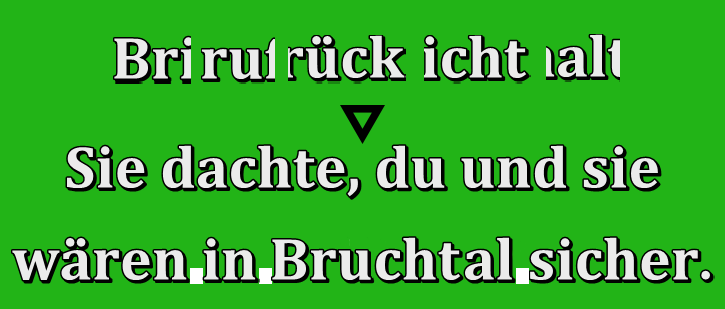
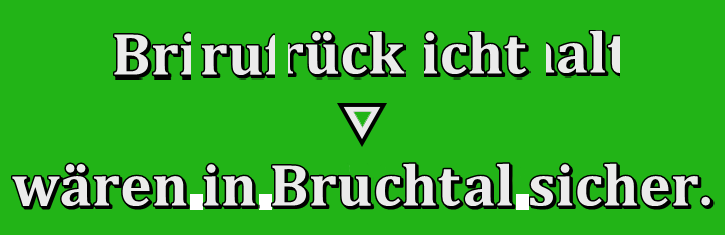
Updated technical details

Changed region(s): [[0.091, 0.0894, 0.9103, 0.6553], [0.0, 0.6851, 1.0, 0.9234]]

diff --git a/README.md b/README.md
@@ -12,12 +12,12 @@ A corrected **Elvish subtitle track** for the **2011 German Extended Edition Blu
 
 > **Note**: Permitted for personal, non-commercial use only.
 
-### **Step 1: Create MKV Files from Your Original Blu-ray Disc**
+### **Step 1: Create MKV Files from Your Original Blu-ray Discs**
 
-1. Insert the **Fellowship of the Ring: Part 1 Extended Edition** into your Blu-ray drive.
+1. Insert the **Fellowship of the Ring Extended Edition: Part 1** into your Blu-ray drive.
 2. Install **[MakeMKV](https://www.makemkv.com/download/)**, then open it and select the Blu-ray disc.
-3. Create the MKV files. Default settings work well for this.
-4. Repeat for **Fellowship of the Ring: Part 2 Extended Edition**
+3. Create the MKV file. Default settings work well for this.
+4. Repeat for **Fellowship of the Ring Extended Edition: Part 3**
 
 ### **Step 2: Replace the Subtitle Track with the Fixed Version**
 
@@ -28,6 +28,6 @@ A corrected **Elvish subtitle track** for the **2011 German Extended Edition Blu
 
 ## **Technical Details**
 
-The Elvish subtitles are in the **Blu-ray PGS (Presentation Graphic Stream) subtitle file (.sup)** format, which is **image-based**, not text-based. To extract the .sup file from the MKV, **[gMKVExtractGUI](https://mkvtoolnix.download/links.html)** was used. After extracting the .sup file, the specific subtitle line was isolated as a PNG image using **[Subtitle Edit](https://www.nikse.dk/subtitleedit)**, and then edited in **[Adobe Photoshop](https://www.adobe.com/products/photoshop.html)**. The incorrect **“I bin”** was replaced with the correct **“Ich bin”** from the later part of the sentence. Upon replacing the previous incorrect subtitle image with the new correct one, the **X offset value** was adjusted to ensure that **the corrected line is perfectly centered** within the frame. The word **“Bruchtal”** was carefully constructed by cutting and recombining letters from existing subtitle images to ensure a natural and accurate visual style matching that of the original font and rendering.
+The Elvish subtitles come in **Blu-ray PGS (Presentation Graphic Stream) subtitle file (.sup)** format, which is image-based rather than text-based. The ".sup" file was extracted from the MKV using **[gMKVExtractGUI](https://mkvtoolnix.download/links.html)**. Using **[Subtitle Edit](https://www.nikse.dk/subtitleedit)**, the specific subtitle images were isolated and edited in **Adobe Photoshop**. The incorrect **"I bin"** was replaced with **"Ich bin"**, taken from the latter part of the sentence. The **X offset** was adjusted to center the updated subtitles precisely. The term **"Rivendell"** was replaced with the proper German equivalent **"Bruchtal"**, carefully assembled by cutting and reusing existing letters from other subtitles to preserve the original font and rendering style as seen below.
 
 ![Behind-the-scenes](images/behind-the-scenes.png)
